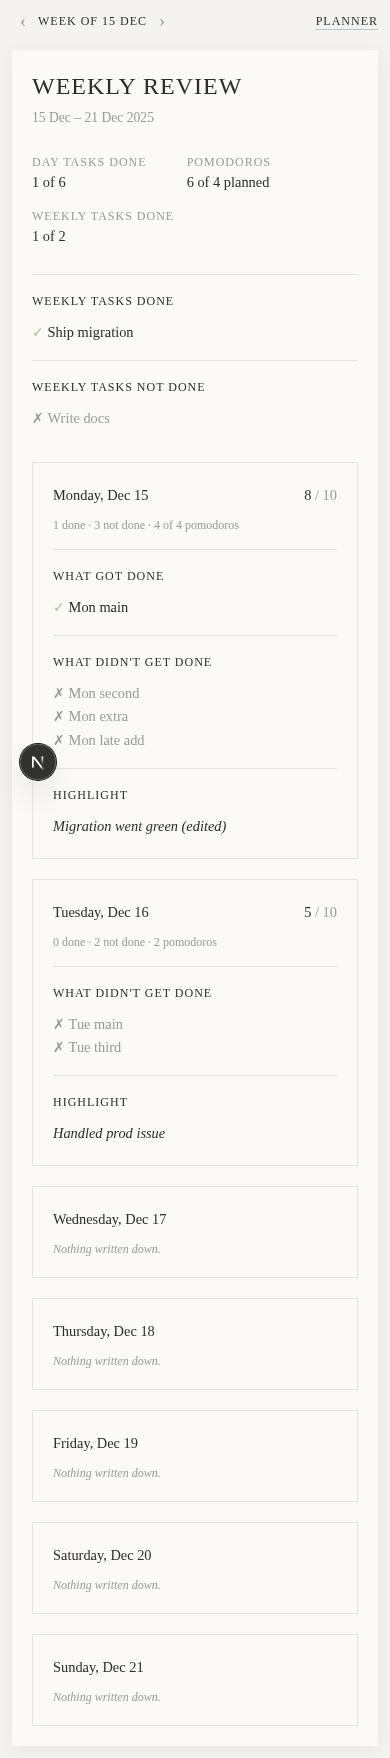
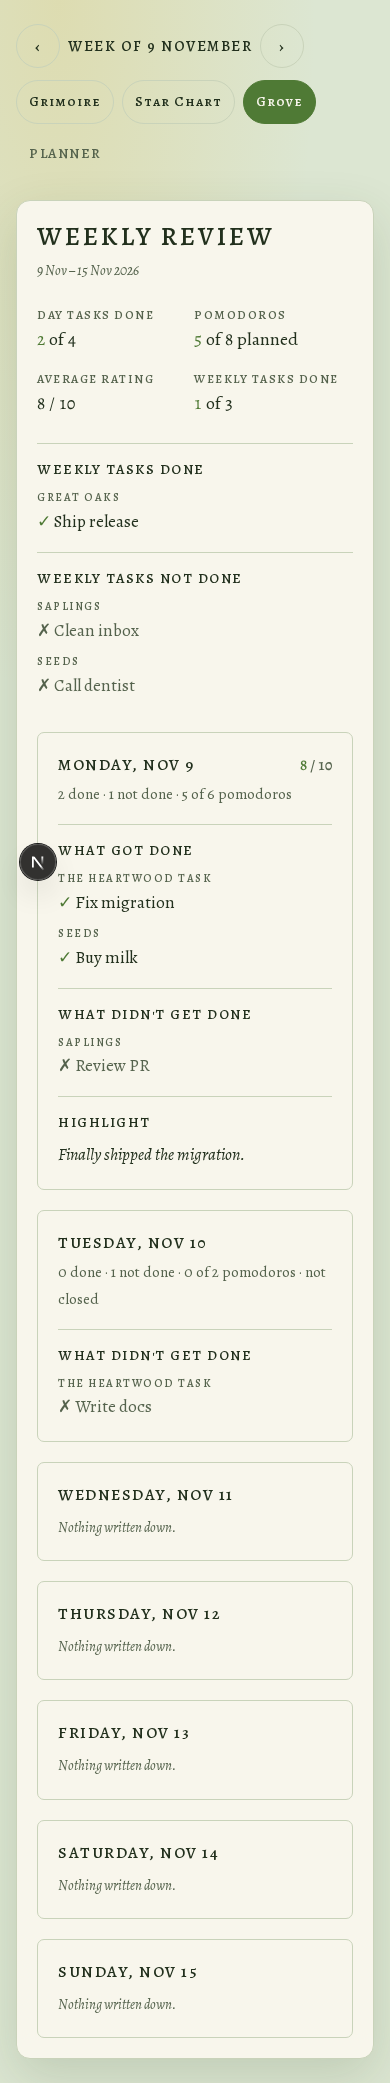
feat(ui): themed Weekly Review (.page, .head, .sub, accent/muted items, themed group names); extract ReviewView

diff --git a/app/review/page.tsx b/app/review/page.tsx
@@ -1,8 +1,5 @@
-import { format, parseISO } from "date-fns";
-import Link from "next/link";
 import { redirect } from "next/navigation";
-import { ReviewCard, TaskList } from "@/components/ReviewCard";
-import { addDaysToDate } from "@/lib/domain/rollover";
+import { ReviewView } from "@/components/ReviewView";
 import { resolveSelection } from "@/lib/domain/selection";
 import { userToday } from "@/lib/planner";
 import { loadReview } from "@/lib/review";
@@ -11,7 +8,6 @@ import { createClient } from "@/lib/supabase/server";
 type SearchParams = Promise<Record<string, string | string[] | undefined>>;
 
 const first = (v: string | string[] | undefined) => (Array.isArray(v) ? v[0] : v);
-const reviewHref = (monday: string) => `/review?week=${monday}`;
 
 /** Weekly review. `?week=YYYY-MM-DD` (any day, normalised to Monday); default: the current week. */
 export default async function ReviewPage({ searchParams }: { searchParams: SearchParams }) {
@@ -24,89 +20,5 @@ export default async function ReviewPage({ searchParams }: { searchParams: Searc
   const today = await userToday(supabase, userId);
   const { weekStart } = resolveSelection({ week: first(params.week) }, today);
   const review = await loadReview(supabase, userId, weekStart);
-  const { totals } = review;
-  const weekTaskCount = review.weekTasksDone.length + review.weekTasksNotDone.length;
-
-  const arrow = "px-2 text-lg leading-none text-muted hover:text-ink";
-  const stat = "flex flex-col";
-
-  return (
-    <main className="mx-auto max-w-[900px] p-3 min-[900px]:p-5">
-      <nav className="mb-5 flex flex-wrap items-center justify-between gap-3 text-sm">
-        <div className="flex items-center gap-1">
-          <Link href={reviewHref(addDaysToDate(weekStart, -7))} aria-label="Previous week" className={arrow}>
-            ‹
-          </Link>
-          <span className="text-xs font-light uppercase tracking-[1px]">
-            Week of {format(parseISO(weekStart), "dd MMM")}
-          </span>
-          <Link href={reviewHref(addDaysToDate(weekStart, 7))} aria-label="Next week" className={arrow}>
-            ›
-          </Link>
-        </div>
-        <Link
-          href={`/?week=${weekStart}`}
-          className="text-xs uppercase tracking-[1px] underline decoration-accent underline-offset-4"
-        >
-          Planner
-        </Link>
-      </nav>
-
-      <div className="bg-page p-5 shadow-[0_4px_20px_rgba(0,0,0,0.06)] min-[900px]:p-10">
-        <h1 className="text-2xl font-light uppercase tracking-[1px]">Weekly Review</h1>
-        <p className="mt-1 text-[0.85rem] text-muted">
-          {format(parseISO(weekStart), "dd MMM")} – {format(parseISO(addDaysToDate(weekStart, 6)), "dd MMM yyyy")}
-        </p>
-
-        <dl className="mt-6 flex flex-wrap gap-x-10 gap-y-3 text-[0.9rem]">
-          <div className={stat}>
-            <dt className="text-xs uppercase tracking-[1px] text-muted">Day tasks done</dt>
-            <dd className="tabular-nums">
-              {totals.done} of {totals.done + totals.notDone}
-            </dd>
-          </div>
-          <div className={stat}>
-            <dt className="text-xs uppercase tracking-[1px] text-muted">Pomodoros</dt>
-            <dd className="tabular-nums">
-              {totals.pomodorosDone}
-              {totals.pomodorosTarget > 0 && ` of ${totals.pomodorosTarget} planned`}
-            </dd>
-          </div>
-          <div className={stat}>
-            <dt className="text-xs uppercase tracking-[1px] text-muted">Average rating</dt>
-            <dd className="tabular-nums">
-              {totals.averageRating === null ? "—" : `${Math.round(totals.averageRating * 10) / 10} / 10`}
-            </dd>
-          </div>
-          <div className={stat}>
-            <dt className="text-xs uppercase tracking-[1px] text-muted">Weekly tasks done</dt>
-            <dd className="tabular-nums">
-              {review.weekTasksDone.length} of {weekTaskCount}
-            </dd>
-          </div>
-        </dl>
-
-        {weekTaskCount === 0 ? (
-          <p className="mt-6 text-xs italic text-muted">No weekly tasks planned.</p>
-        ) : (
-          <div className="mt-2 grid gap-x-10 min-[600px]:grid-cols-2">
-            <TaskList title="Weekly tasks done" tasks={review.weekTasksDone} done />
-            <TaskList title="Weekly tasks not done" tasks={review.weekTasksNotDone} done={false} />
-          </div>
-        )}
-
-        {review.days.some((d) => d.hasData) ? (
-          <div className="mt-8 grid gap-5">
-            {review.days.map((day) => (
-              <ReviewCard key={day.date} day={day} />
-            ))}
-          </div>
-        ) : (
-          <p className="mt-8 border-t border-line pt-6 text-sm italic text-muted">
-            These pages are still blank. Plan a day and close it, and it will show up here.
-          </p>
-        )}
-      </div>
-    </main>
-  );
+  return <ReviewView review={review} weekStart={weekStart} />;
 }

diff --git a/components/ReviewView.tsx b/components/ReviewView.tsx
@@ -1,0 +1,98 @@
+import { format, parseISO } from "date-fns";
+import Link from "next/link";
+import { ReviewCard, TaskList } from "@/components/ReviewCard";
+import { ThemeSwitcher } from "@/components/ThemeSwitcher";
+import type { WeekReview } from "@/lib/domain/review";
+import { addDaysToDate } from "@/lib/domain/rollover";
+
+const reviewHref = (monday: string) => `/review?week=${monday}`;
+
+/** Weekly review screen (themed: .page, .head, .sub; done = accent, not done = muted). */
+export function ReviewView({ review, weekStart }: { review: WeekReview; weekStart: string }) {
+  const { totals } = review;
+  const weekTaskCount = review.weekTasksDone.length + review.weekTasksNotDone.length;
+
+  const arrow = "pill inline-flex items-center justify-center text-lg!";
+  const stat = "flex flex-col";
+  const statLabel = "head text-xs text-muted";
+
+  return (
+    <main className="mx-auto flex max-w-[960px] flex-col gap-6 px-4 py-6 min-[600px]:px-6 min-[600px]:py-8">
+      <nav aria-label="Review" className="flex flex-wrap items-center justify-between gap-x-6 gap-y-3">
+        <div className="flex items-center gap-2">
+          <Link href={reviewHref(addDaysToDate(weekStart, -7))} aria-label="Previous week" className={arrow}>
+            ‹
+          </Link>
+          <span className="head min-w-44 text-center text-[15px]">
+            Week of {format(parseISO(weekStart), "d MMMM")}
+          </span>
+          <Link href={reviewHref(addDaysToDate(weekStart, 7))} aria-label="Next week" className={arrow}>
+            ›
+          </Link>
+        </div>
+        <div className="flex flex-wrap items-center gap-2">
+          <ThemeSwitcher />
+          <Link href={`/?week=${weekStart}`} className="btn ghost inline-flex items-center px-3!">
+            Planner
+          </Link>
+        </div>
+      </nav>
+
+      <div className="page p-5 min-[600px]:p-8">
+        <h1 className="head text-[26px] leading-tight tracking-[3px]!">Weekly Review</h1>
+        <p className="sub mt-1">
+          {format(parseISO(weekStart), "d MMM")} – {format(parseISO(addDaysToDate(weekStart, 6)), "d MMM yyyy")}
+        </p>
+
+        <dl className="mt-6 flex flex-wrap gap-x-10 gap-y-4 text-[18px]">
+          <div className={stat}>
+            <dt className={statLabel}>Day tasks done</dt>
+            <dd className="tabular-nums">
+              <span className="text-accent">{totals.done}</span> of {totals.done + totals.notDone}
+            </dd>
+          </div>
+          <div className={stat}>
+            <dt className={statLabel}>Pomodoros</dt>
+            <dd className="tabular-nums">
+              <span className="text-accent">{totals.pomodorosDone}</span>
+              {totals.pomodorosTarget > 0 && ` of ${totals.pomodorosTarget} planned`}
+            </dd>
+          </div>
+          <div className={stat}>
+            <dt className={statLabel}>Average rating</dt>
+            <dd className="tabular-nums">
+              {totals.averageRating === null ? "—" : `${Math.round(totals.averageRating * 10) / 10} / 10`}
+            </dd>
+          </div>
+          <div className={stat}>
+            <dt className={statLabel}>Weekly tasks done</dt>
+            <dd className="tabular-nums">
+              <span className="text-accent">{review.weekTasksDone.length}</span> of {weekTaskCount}
+            </dd>
+          </div>
+        </dl>
+
+        {weekTaskCount === 0 ? (
+          <p className="sub mt-6">No weekly tasks planned.</p>
+        ) : (
+          <div className="mt-2 grid gap-x-10 min-[600px]:grid-cols-2">
+            <TaskList title="Weekly tasks done" tasks={review.weekTasksDone} done kind="week" />
+            <TaskList title="Weekly tasks not done" tasks={review.weekTasksNotDone} done={false} kind="week" />
+          </div>
+        )}
+
+        {review.days.some((d) => d.hasData) ? (
+          <div className="mt-8 grid gap-5">
+            {review.days.map((day) => (
+              <ReviewCard key={day.date} day={day} />
+            ))}
+          </div>
+        ) : (
+          <p className="sub mt-8 border-t border-line pt-6">
+            These pages are still blank. Plan a day and close it, and it will show up here.
+          </p>
+        )}
+      </div>
+    </main>
+  );
+}

diff --git a/components/ReviewCard.tsx b/components/ReviewCard.tsx
@@ -1,44 +1,24 @@
 import { format, parseISO } from "date-fns";
 import Link from "next/link";
-import type { DayReview, ReviewTask } from "@/lib/domain/review";
+import type { DayReview } from "@/lib/domain/review";
 import { plannerHref } from "@/lib/domain/selection";
+import { TaskList } from "./ReviewTaskList";
 
-const sectionTitle = "mb-2 text-[0.75rem] font-light uppercase tracking-[1px]";
-
-/** Done (accent ✓) or not done (muted ✗) task list; nothing when empty. */
-export function TaskList({ title, tasks, done }: { title: string; tasks: ReviewTask[]; done: boolean }) {
-  if (tasks.length === 0) return null;
-  return (
-    <div className="mt-4 border-t border-line pt-4">
-      <h3 className={sectionTitle}>{title}</h3>
-      <ul className="text-[0.9rem] leading-relaxed">
-        {tasks.map((t) => (
-          <li key={t.slot} className={done ? "text-ink" : "text-muted"}>
-            <span aria-hidden className={done ? "text-accent" : undefined}>
-              {done ? "✓" : "✗"}
-            </span>{" "}
-            <span className="sr-only">{done ? "Done: " : "Not done: "}</span>
-            {t.title}
-          </li>
-        ))}
-      </ul>
-    </div>
-  );
-}
+export { TaskList };
 
 /** One day of the weekly review: done / not done / highlight / rating / pomodoros. */
 export function ReviewCard({ day }: { day: DayReview }) {
   const date = parseISO(day.date);
   return (
-    <article className="border border-line bg-page p-5">
+    <article className="rounded-[calc(var(--radius)/2)] border border-line p-5">
       <header className="flex items-baseline justify-between gap-4">
-        <h2 className="text-[0.9rem]">
-          <Link href={plannerHref(day.date)} className="hover:underline decoration-accent underline-offset-4">
+        <h2 className="head text-base">
+          <Link href={plannerHref(day.date)} className="decoration-accent underline-offset-4 hover:underline">
             {format(date, "EEEE, MMM d")}
           </Link>
         </h2>
         {day.rating !== null && (
-          <span className="text-[0.9rem] tabular-nums">
+          <span className="font-head text-base tabular-nums text-accent">
             {day.rating}
             <span className="text-muted"> / 10</span>
           </span>
@@ -46,20 +26,20 @@ export function ReviewCard({ day }: { day: DayReview }) {
       </header>
 
       {!day.hasData ? (
-        <p className="mt-2 text-xs italic text-muted">Nothing written down.</p>
+        <p className="sub mt-2">Nothing written down.</p>
       ) : (
         <>
-          <p className="mt-2 text-xs text-muted">
+          <p className="mt-1 text-[15px] text-muted">
             {day.done.length} done · {day.notDone.length} not done · {day.pomodorosDone}
             {day.pomodorosTarget > 0 && ` of ${day.pomodorosTarget}`} pomodoros
             {!day.closed && " · not closed"}
           </p>
-          <TaskList title="What got done" tasks={day.done} done />
-          <TaskList title="What didn't get done" tasks={day.notDone} done={false} />
+          <TaskList title="What got done" tasks={day.done} done kind="day" />
+          <TaskList title="What didn't get done" tasks={day.notDone} done={false} kind="day" />
           {day.highlight && (
             <div className="mt-4 border-t border-line pt-4">
-              <h3 className={sectionTitle}>Highlight</h3>
-              <p className="whitespace-pre-line text-[0.9rem] italic leading-relaxed">{day.highlight}</p>
+              <h3 className="head mb-2 text-sm">Highlight</h3>
+              <p className="text-[17px] whitespace-pre-line italic leading-relaxed">{day.highlight}</p>
             </div>
           )}
         </>

diff --git a/components/ReviewTaskList.tsx b/components/ReviewTaskList.tsx
@@ -1,0 +1,51 @@
+"use client";
+
+import type { ReviewTask } from "@/lib/domain/review";
+import { slotGroups, type PageKind } from "@/lib/theme";
+import { useTheme } from "./ThemeProvider";
+
+/**
+ * Done (accent ✓) or not done (muted ✗) task list for the weekly review,
+ * split under the theme's group names (lib/theme.ts). Nothing when empty.
+ */
+export function TaskList({
+  title,
+  tasks,
+  done,
+  kind,
+}: {
+  title: string;
+  tasks: ReviewTask[];
+  done: boolean;
+  kind: PageKind;
+}) {
+  const { theme } = useTheme();
+  if (tasks.length === 0) return null;
+  const groups = slotGroups(theme, kind)
+    .map((g) => ({ label: g.label, tasks: tasks.filter((t) => g.slots.includes(t.slot)) }))
+    .filter((g) => g.tasks.length > 0);
+
+  return (
+    <div className="mt-4 border-t border-line pt-4">
+      <h3 className="head mb-2 text-sm">{title}</h3>
+      <div className="flex flex-col gap-2">
+        {groups.map((g) => (
+          <div key={g.label}>
+            <h4 className="head text-[11px] text-muted">{g.label}</h4>
+            <ul className="text-[17px] leading-relaxed">
+              {g.tasks.map((t) => (
+                <li key={t.slot} className={done ? "text-ink" : "text-muted"}>
+                  <span aria-hidden className={done ? "text-accent" : "text-muted"}>
+                    {done ? "✓" : "✗"}
+                  </span>{" "}
+                  <span className="sr-only">{done ? "Done: " : "Not done: "}</span>
+                  {t.title}
+                </li>
+              ))}
+            </ul>
+          </div>
+        ))}
+      </div>
+    </div>
+  );
+}

diff --git a/docs/PROGRESS.md b/docs/PROGRESS.md
@@ -614,3 +614,24 @@ What was done (UI only; Server Actions, data flow and `lib/domain` unchanged):
     - No page errors.
 
 Next: Weekly Review and Login restyle, then final check (1440/390, reduced motion) and PR.
+
+## UI redesign step 7 — Weekly Review restyle
+
+What was done (UI only; `loadReview`, `reviewWeek` and the review data are unchanged, no new animations):
+- **`components/ReviewView.tsx`** (new): the review markup moved out of `app/review/page.tsx`, which now only loads data and renders `<ReviewView review weekStart />`. This lets the view be rendered with fake data for checks.
+  - Nav row like the planner: `.pill` ‹ › arrows, `.head` "Week of 9 November", then `ThemeSwitcher` and a `.btn.ghost` "Planner" link.
+  - One `.page` surface (padding 20px, 32px from 600px). `.head` "Weekly Review" (26px, 3px tracking) and a `.sub` date range.
+  - Stats: muted `.head` labels; the done counts (day tasks, pomodoros, weekly tasks) are in `text-accent`.
+  - Empty states use `.sub`.
+- **`components/ReviewTaskList.tsx`** (new, client): `TaskList` with a new `kind: "week" | "day"` prop. Tasks are split under the theme's group names from `slotGroups()` in `lib/theme.ts`, shown as small muted `.head` labels. Empty groups are hidden. Done items are ink with a `text-accent` ✓; not-done items are `text-muted` with a muted ✗. The screen-reader "Done:/Not done:" text is kept.
+- **`components/ReviewCard.tsx`**: the day card is a bordered block (`rounded-[calc(var(--radius)/2)]`, `border-line`) inside the page. The date is a `.head` link with an accent underline on hover. The rating is in the heading font with the number in accent. It still re-exports `TaskList`.
+- No `.btn.solid`, `.field` or `.rate` is used, because the review is read-only.
+- No old palette classes remain in `app/` or `components/`.
+- Verified:
+  - lint is clean and `npm test` passes 96/96.
+  - Playwright on a temporary public page (`/auth/tmp-review`, fake data via `reviewWeek`, deleted and not committed). All three themes were checked at 1440px and Grove at 390px.
+    - Group labels switch with the theme.
+    - There is no horizontal scroll and no page errors.
+  - Screenshots: `docs/screenshots/review-1440.png` (Grimoire), `review-astral-1440.png`, `review-390.png` (Grove).
+
+Next: Login restyle (if still needed), final check (1440/390, reduced motion) and PR.
